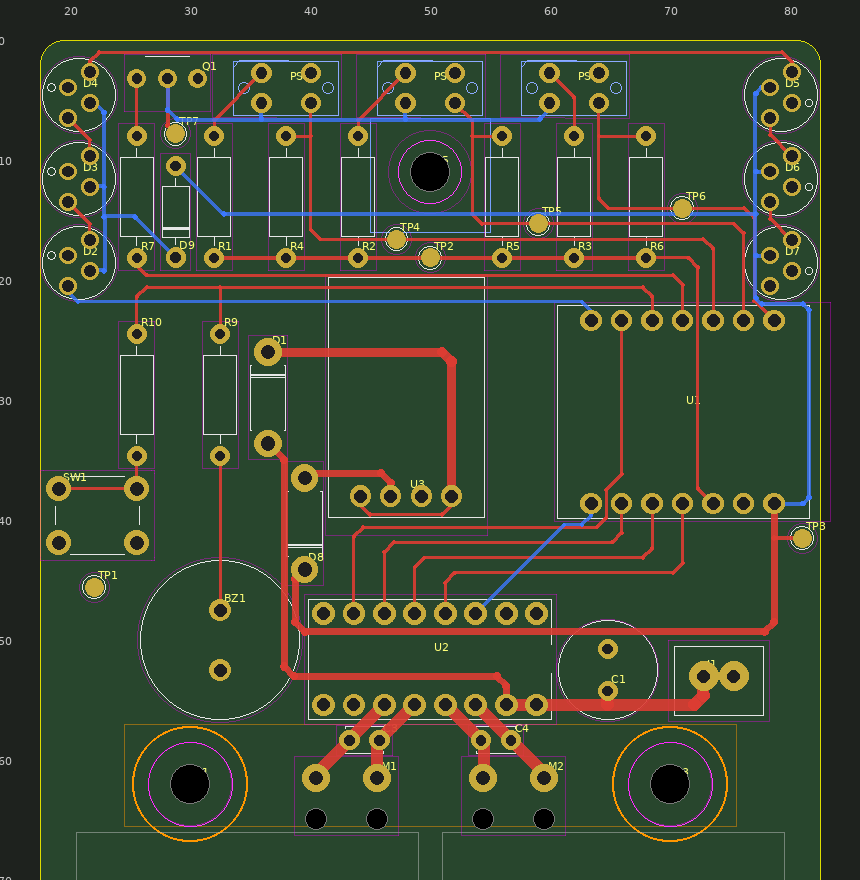
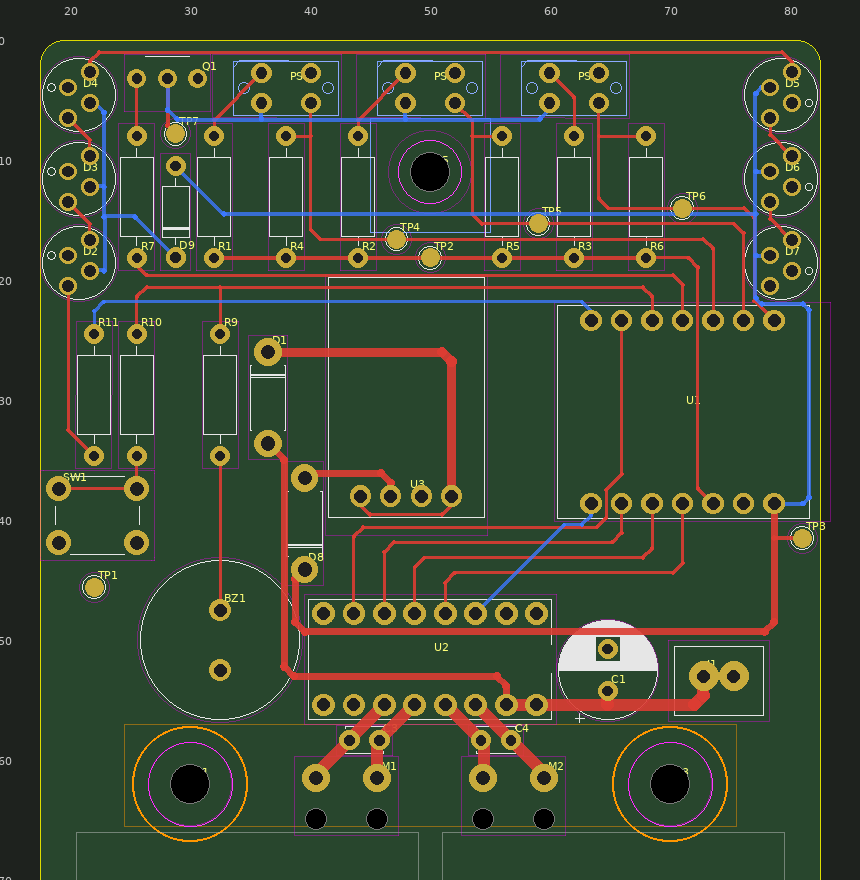
Lite rev.L4 + R11 + 回路図の直しを 1 つにそろえた（矛盾の解消）
#9・#10・#11 を合わせたときに食いちがっていたところを直した。
- 基板: R11 を R10 のすぐ左（x 22）へ。#10 の位置（x 55.5）は #11 の U3（5 V モジュール）
  と重なっていた。D6 の線は rev.L3 と同じ裏の道（y 21.8）で R11 まで、R11 → D2 は表。
  すき間・つながり・パッド間・コートヤードを配置データから調べてエラー 0
- 回路図: #9 の重なり直しの配置に、R11（LED の列の左）と rev.L4 の電源を入れた。
  D9（左の LED の電源を 0.7 V 下げる）は電源ブロックへ。U3 のまわりはラベルを 1 つずつにし、
  D1 → U3 → D8 を線でつないだ。説明文の行の重なりを直した
- 手順の絵: ③ に R11 を入れた（step_images.py）
- 資料: 「VSYS の 470 µF（C2）だけ」など rev.L4 で変わったことと合わない説明、
  R11 の場所、配置の絵（rev_l4_layout_preview.png）を直した

Claude-Session: https://claude.ai/code/session_01LPBWf8VN6nP3ow3MybUPjh

Changed region(s): [[0.6349, 0.7057, 0.786, 0.767], [0.0605, 0.3375, 0.1209, 0.4909], [0.0907, 0.4909, 0.1209, 0.5523]]

diff --git a/lite/scripts/gen_schematic_lite.py b/lite/scripts/gen_schematic_lite.py
@@ -89,35 +89,56 @@ d1 = s.place("Device:D_Schottky", "D1", "1N5819", 73.66, 45.72, 180,
              fields={"Note": "reverse battery: protects U3 and the XIAO"},
              ref_off=(-2.54, -3.81), val_off=(-3.81, 3.81))
 s.lab(d1, "2", "VBAT")      # A
-s.lab(d1, "1", "VIN_BB")    # K
-s.power("PWR_FLAG", 83.82, 43.18, "up")
-s.wire(83.82, 43.18, 83.82, 45.72)
-s.label("VIN_BB", 83.82, 45.72, "down")
-
+# D1 K -> U3 VIN with EN tied to it (EN must not float: always on); one VIN_BB label names the net for the PCB
 u3 = s.place("Linetracer2:AE-TPS63802", "U3", "AE-TPS63802", 104.14, 48.26, 0,
              footprint="Linetracer2:AE-TPS63802",
              fields={"Akizuki": "115557 (AE-TPS63802 kit) + 470k 125474 for VR1",
                      "Note": "VR1 = 470k resistor (5.13 V), lying flat; header 4P from the kit"},
-             ref_off=(0, -8.89), val_off=(0, 11.43))
-s.lab(u3, "1", "VIN_BB")
-s.lab(u3, "4", "VIN_BB")    # EN must not float: always on
-s.lab(u3, "3", "VOUT_BB")
+             ref_off=(0, -10.16), val_off=(0, -7.62))
+xk, yk, _ = d1.pin("1")
+xv, yv, _ = u3.pin("1")
+xe, ye, _ = u3.pin("4")
+s.wire(xk, yk, xv, yv)
+s.path((xe, ye), (xe - 5.08, ye), (xe - 5.08, yv))
+s.junction(xe - 5.08, yv)
+s.label("VIN_BB", xk + 2.54, yk, "right")
+s.power("PWR_FLAG", 83.82, 43.18, "up")
+s.wire(83.82, 43.18, 83.82, yk)
+s.junction(83.82, yk)
 s.pwr(u3, "2", "GND")
 
+# U3 VOUT -> D8 A (one VOUT_BB label), D8 K -> VSYS
 d8 = s.place("Device:D_Schottky", "D8", "1N5819", 132.08, 45.72, 180,
              footprint="Diode_THT:D_DO-41_SOD81_P7.62mm_Horizontal",
              fields={"Note": "OR diode: U3 can not feed the PC's USB port, USB 5 V can not feed U3"},
              ref_off=(-2.54, -3.81), val_off=(-3.81, 3.81))
-s.lab(d8, "2", "VOUT_BB")   # A
+xo, yo, _ = u3.pin("3")
+xa, ya, _ = d8.pin("2")
+s.wire(xo, yo, xa, ya)
+s.label("VOUT_BB", xo + 2.54, yo, "right")
 s.lab(d8, "1", "VSYS")      # K
 s.power("PWR_FLAG", 142.24, 43.18, "up")
 s.wire(142.24, 43.18, 142.24, 45.72)
 s.label("VSYS", 142.24, 45.72, "down")
 
+# D9: supply of the left LED column (D2..D4), 0.7 V below VSYS: the first LED then reads the XIAO's 3.3 V data
+d9 = s.place("Device:D", "D9", "1N4148", 182.88, 45.72, 180,
+             footprint="Diode_THT:D_DO-35_SOD27_P7.62mm_Horizontal",
+             fields={"Akizuki": "1N4148 (check the code)", "Note": "level shift: the first LED runs 0.7 V lower"},
+             ref_off=(-2.54, -3.81), val_off=(-3.81, 3.81))
+s.lab(d9, "2", "VSYS")      # A
+s.lab(d9, "1", "VLED_L")    # K
+s.power("PWR_FLAG", 198.12, 43.18, "up")
+s.wire(198.12, 43.18, 198.12, 45.72)
+s.label("VLED_L", 198.12, 45.72, "down")
+s.text("D9: VLED_L = VSYS - 0.7 V = about 4.1 V for the left LEDs D2-D4.", 167.64, 55.88, 1.27)
+s.text("A PL9823 reads '1' above 0.7 x VDD: 2.9 V there, so the XIAO's 3.3 V", 167.64, 59.69, 1.27)
+s.text("data is enough.  D2-D4 pass the data on at 4.1 V, enough for D5-D7.", 167.64, 63.5, 1.27)
+
 # GND: nothing on this board is a power output for GND (the XIAO's GND pin is a power input)
-s.power("PWR_FLAG", 160.02, 43.18, "up")
-s.wire(160.02, 43.18, 160.02, 45.72)
-s.power("GND", 160.02, 45.72, "down")
+s.power("PWR_FLAG", 228.6, 43.18, "up")
+s.wire(228.6, 43.18, 228.6, 45.72)
+s.power("GND", 228.6, 45.72, "down")
 
 s.text("Why rev.L4: 2 motors starting / stalled pull 2-4 A and the AA cells sag to 2.5-3.3 V; the XIAO needs about 4 V on its "
        "5V pin and reset.", 20.32, 73.66, 1.27)
@@ -128,7 +149,7 @@ s.text("U3 kit: solder a 470k resistor (flat) in place of VR1 BEFORE power-up.  
 
 # ---- mechanical (mounting holes, kept in the schematic for PCB parity)
 s.text("MECHANICAL: H1-H4 = gearbox frame M3 (x30/x70, y62/y96), H5 = front ball caster / skid, snap-in (x50, y11: behind the centre sensor)",
-       20.32, 83.82, 1.27)
+       20.32, 85.09, 1.27)
 for i in range(5):
     s.place("Mechanical:MountingHole", "H%d" % (i + 1), "M3" if i < 4 else "SKID M3", 27.94 + i * 22.86, 91.44, 0,
             footprint="MountingHole:MountingHole_3.2mm_M3", in_bom=False,
@@ -252,20 +273,12 @@ s.connect(r11, "2", leds[0], "4")
 for a, b in zip(leds, leds[1:]):
     s.connect(a, "2", b, "4")
 s.nc(leds[-1], "2")
-d9 = s.place("Device:D", "D9", "1N4148", 299.72, 135.89, 180,
-             footprint="Diode_THT:D_DO-35_SOD27_P7.62mm_Horizontal",
-             fields={"Akizuki": "1N4148 (check the code)", "Note": "level shift: the first LED runs 0.7 V lower"},
-             ref_off=(-2.54, -3.81), val_off=(-3.81, 3.81))
-s.lab(d9, "2", "VSYS")      # A
-s.lab(d9, "1", "VLED_L")    # K
-s.power("PWR_FLAG", 312.42, 133.35, "up")
-s.wire(312.42, 133.35, 312.42, 135.89)
-s.label("VLED_L", 312.42, 135.89, "down")
-s.text("D2..D7 = PL9823 (NeoPixel type, 800 kHz, 24 bit per LED): D2-D4 left side (rear -> front), D5-D7 right side",
+s.text("D2..D7 = PL9823 (NeoPixel type, 800 kHz, 24 bit per LED): D2-D4 left side (rear -> front, VDD = VLED_L),",
        271.78, 165.1, 1.27)
-s.text("(front -> rear).  Data from D6 (TX: the boot log may flash them once).  6 x white = 0.36 A: the library limits it.",
+s.text("D5-D7 right side (front -> rear, VDD = VSYS).  Data from D6 (TX: the boot log may flash them once) through R11 1k:",
        271.78, 168.91, 1.27)
-s.text("R11 1k in the data line: 5 mA at most if DIN touches VDD or GND, or D2 is in backwards.", 271.78, 172.72, 1.27)
+s.text("5 mA at most if DIN touches VDD or GND, or D2 is in backwards.  6 x white = 0.36 A: the library limits it.",
+       292.1, 172.72, 1.27)
 r9 = s.place("Device:R", "R9", "100", 287.02, 175.26, 90, footprint=R_FP,
              ref_off=(-2.54, -2.54), val_off=(-1.27, 2.54))
 bz = s.place("Device:Buzzer", "BZ1", "piezo 13mm", 304.8, 177.8, 0,

diff --git a/lite/scripts/layout_lite.py b/lite/scripts/layout_lite.py
@@ -10,7 +10,7 @@ Routing style ("beautiful" by rule, not by an autorouter):
   * signals that travel together run as a bus at a fixed pitch (sensor lines 1.3 mm, motor inputs 1.27 mm,
     the three button/LED lines 1.0 mm) and keep their order, so nothing on the top side crosses
   * the top side (F.Cu) carries almost everything; the bottom side only the IR LED cathode bus right behind the
-    sensors (they are on the bottom too), the driver's STBY line and the RGB LEDs' supply and data inlet (R11 -> D2),
+    sensors (they are on the bottom too), the driver's STBY line and the RGB LEDs' supply and data line (XIAO -> R11),
     plus a GND pour on both sides
   * symmetric where the parts allow it: the driver sits on the centre line and fans out to both motors alike
 
@@ -80,8 +80,9 @@ PLACE["R10"] = (25.58, UI_R, 270, "F")   # 1k: D4 -> button (right behind R7, sa
 PLACE["SW1"] = (19.08, 37.4, 0, "F")     # pin 1 (front) on R10, pin 2 (rear) GND
 PLACE["R9"] = (32.5, UI_R, 270, "F")     # 100: D4 -> buzzer +
 PLACE["BZ1"] = (32.5, 47.5, 270, "F")    # + front, - rear (body centre 32.5 / 50.0; 1 mm from the frame pillar)
-# 1k in the RGB data line, same row, right beside the XIAO's antenna keep-out (x 56.65 ..): pad 1 (D6) at the front
-PLACE["R11"] = (55.5, UI_R, 270, "F")
+# 1k in the RGB data line, same row, at the left end (left of R10, behind the left LED column): pad 1 (D6) at the
+# front.  (rev.L3 had it right of the bus at x 55.5; since rev.L4 the 5 V module U3 sits there.)
+PLACE["R11"] = (22.0, UI_R, 270, "F")
 
 # 6 full-colour LEDs (PL9823), 3 down each side edge of the front half (the board is free there in front of the
 # XIAO).  One data chain: left rear -> left front (turned 90: DIN rear, DO front), along the front edge,
@@ -183,11 +184,11 @@ route("BTN", "F", W_SIG, P("SW1", "1"), X(25.58))      # the button's two pin-1 
 route("Q1-B", "F", W_SIG, P("R7", "2"), P("Q1", "3"))
 route("BZ1+", "F", W_SIG, P("R9", "2"), P("BZ1", "1"))
 
-# RGB LEDs.  Data: D6 as the 3rd line of the bus (in front of the antenna keep-out) to R11, from R11's rear pad on
-# the bottom (a 45 deg step past its front pad) to the left rear LED, then on the top along each column (a step and
-# a 45 deg jog between neighbours) and along the front edge from the left to the right
-route("RGB_DIN", "F", W_SIG, P("U1", "7"), Y(21.6), X(55.5), P("R11", "1"))
-route("D2-DIN", "B", W_SIG, P("R11", "2"), DX(53.5, -1), Y(21.8), X(LED_L - 0.9), P("D2", "4"))
+# RGB LEDs.  Data: D6 on the bottom just in front of the XIAO's pins (y 21.8, under U3) to R11 at the left end, from
+# R11's rear pad on the top 45 deg to the left and straight forward to the left rear LED, then on the top along each
+# column (a step and a 45 deg jog between neighbours) and along the front edge from the left to the right
+route("RGB_DIN", "B", W_SIG, P("U1", "7"), Y(21.8), X(22.0), P("R11", "1"))
+route("D2-DIN", "F", W_SIG, P("R11", "2"), DX(LED_L - 0.9, -1), P("D2", "4"))
 route("D2-DO", "F", W_SIG, P("D2", "2"), Y(15.305), DX(LED_L - 0.9, -1), P("D3", "4"))
 route("D3-DO", "F", W_SIG, P("D3", "2"), Y(8.305), DX(LED_L - 0.9, -1), P("D4", "4"))
 route("D4-DO", "F", W_SIG, P("D4", "2"), Y(1.0), X(LED_R + 0.9), P("D5", "4"))

diff --git a/lite/scripts/step_images.py b/lite/scripts/step_images.py
@@ -23,7 +23,7 @@ import asm3d  # noqa: E402
 import layout_lite as LL  # noqa: E402
 
 # build order (= the circled numbers on the board, lite/docs/assembly.md)
-STEPS = {1: ["R1", "R2", "R3", "R9"], 2: ["R4", "R5", "R6"], 3: ["R7", "R10"], 4: ["D1", "D8"], 5: ["D9"],
+STEPS = {1: ["R1", "R2", "R3", "R9"], 2: ["R4", "R5", "R6"], 3: ["R7", "R10", "R11"], 4: ["D1", "D8"], 5: ["D9"],
          6: ["C3", "C4"], 7: ["Q1"], 8: ["SW1"], 9: ["BZ1"], 10: ["J1"], 11: ["U2"], 12: ["U1"], 13: ["U3"],
          14: ["D2", "D3", "D4", "D5", "D6", "D7"], 15: ["C1"], 16: ["PS1", "PS2", "PS3"]}
 SENSOR_STEP = 16

diff --git a/lite/README.md b/lite/README.md
@@ -91,6 +91,7 @@ rev.L3 は `単3×3 ─ D1 ─ XIAO の 5V ピン` だった。XIAO の中は `5
 
 - **U3 は真ん中**（ブザーと XIAO のアンテナの間）に、自分のピンヘッダでねかせる（2.5 mm 浮く）。下は線だけ（3 本のバスなど）。XIAO のアンテナの禁止エリアから 2 mm、IN2 の線から 0.4 mm。
 - **D1・D8 は U3 の左にたてに 2 本**。D9 は前の R7 と R1 の間（裏の横の線（VSYS）を D9 で 2 つに分けた）。
+- **R11（フルカラー LED の信号線の 1 kΩ）は R10 のすぐ左**。rev.L3 の案（x 55.5）は U3 の四角と重なるので動かした。D6 の線は裏で y 21.8 を左へ R11 まで、R11 → D2 は表（§3.6）。
 - **電池（U3 の入力）と 5 V（VSYS）は、モータードライバのモジュールの下**（2 列のピンの間。モジュールは 2.5 mm 浮いている）を 2 本の線で通した。右うしろ（ドライバの VM のピン、XIAO の 5V ピン）から真ん中へ、XIAO のアンテナの禁止エリアと STBY の線（裏）をよけて、**交差なしで行ける道はここだけ**。線の太さは 0.6 mm（1 A まで）、ビア 0 のまま。
 - C2・前の D1 の場所（右うしろ）があいたので、ロボットの名前をそこへ。テストパッド GND（TP1）はスタートボタンのうしろへ（前の場所は U3 の下になる）。**抵抗の絵は U3 の四角の中**（抵抗は ①〜③、U3 は ⑬ なので、使うときには見える）。
 - つくる順番を **①〜⑰** に付け直した: ④ 1N5819 ×2（D1・D8）→ ⑤ 1N4148（D9）→ ⑥ 0.1 µF → ⑦ トランジスタ → ⑧ ボタン → ⑨ ブザー → ⑩ でんち → ⑪ ドライバー → ⑫ XIAO → **⑬ でんげん（U3）** → ⑭ フルカラー LED → ⑮ 470 µF（C1 だけ）→ ⑯ センサー（裏）→ ⑰ モーター。
@@ -143,7 +144,7 @@ KiCad で作り直したら確かめること: ERC / DRC がエラー 0・警告
 | 9 | XIAO は**ピンヘッダ**で（じか付けではなく） | **2 列 × 7 ピンのスルーホール**に変えた（ピンヘッダは 1×40 を切って使う）。XIAO は基板から 2.5 mm 浮く |
 | 10 | 抵抗も分かりやすく | **同じ色の抵抗を 1 つの番号でまとめて付ける**: ① ちゃ（100 Ω ×4）→ ② だいだい（10 kΩ ×3）→ ③ あか（1 kΩ ×3。2026-10-30 に R11 が増えた）。右前の角に**抵抗の絵（3 本目の帯に ▲）と「① ちゃ ② だいだい ③ あか」**を印刷 |
 | 11 | 全部（スキッド・モーター・ギヤボックス・電池・基板・部品）を合わせて STEP か STL で | **`hardware/Linetracer2-Lite_assembly.stl`**（12 万三角形、6 MB）と色つきの **`.glb`**。作り方は §9 |
-| 12 | フルカラー LED に電流が流れすぎないよう、XIAO の出せる電流と LED の入力を見て抵抗を付ける。コンデンサはいらないかも（2026-10-30 の依頼） | **信号線に R11 1 kΩ**（XIAO D6 → R11 → D2 の DIN）。ふだん DIN にはほとんど電流が流れないが、**DIN が VDD（USB で 5 V）や GND とはんだでつながったとき・LED を逆に差したとき**に D6 から出入りする電流を **5 mA 以下**にする（XIAO のピンの限度 28 mA / 40 mA、§3.6）。LED が光る電流は VDD（VSYS）から LED の中の定電流回路が流すので、抵抗では決めない（明るさはソフトで 60/255）。**コンデンサは付けない**（LED ごとの 0.1 µF なし、VSYS の 470 µF（C2）だけ、のまま）。抵抗は R7・R10 と同じ 1 kΩ なので、部品の種類は増えない（③ あか が 3 本に） |
+| 12 | フルカラー LED に電流が流れすぎないよう、XIAO の出せる電流と LED の入力を見て抵抗を付ける。コンデンサはいらないかも（2026-10-30 の依頼） | **信号線に R11 1 kΩ**（XIAO D6 → R11 → D2 の DIN）。ふだん DIN にはほとんど電流が流れないが、**DIN が VDD（USB で 5 V）や GND とはんだでつながったとき・LED を逆に差したとき**に D6 から出入りする電流を **5 mA 以下**にする（XIAO のピンの限度 28 mA / 40 mA、§3.6）。LED が光る電流は VDD（VSYS）から LED の中の定電流回路が流すので、抵抗では決めない（明るさはソフトで 60/255）。**コンデンサは付けない**（LED ごとの 0.1 µF なし。rev.L4 では VSYS の 470 µF（C2）もやめたので、LED のそばには U3 の出力のコンデンサだけ）。抵抗は R7・R10 と同じ 1 kΩ なので、部品の種類は増えない（③ あか が 3 本に） |
 | — | 子ども向けか（組み立てにくい・すべる・角がとがっている・危ない所）を別のエージェントでも確認 | 3D プリント部品は角を丸め、枠に L / R の刻印（`../hardware/mechanical/README.md` §6）。電子工作の側のレビューは §11 |
 
 | | 標準版 rev.A1 | Lite rev.L2 | **Lite rev.L3** |
@@ -298,9 +299,9 @@ VSYS ─ D2〜D7 の VDD（裏の線）      GND ─ D2〜D7 の GND（ベタ）
   - **PL9823 の決まりは 4.5〜6 V**。電池では少し足りないが、ふつうは光る。電池が減ると青と緑が暗くなる（赤っぽくなる）。
   - 秋月のもう 1 つの 5 mm フルカラー LED **OST4ML5B32A**（3.5〜6 V）は電圧は合うが、信号が 3 段階（H・中間・L）の独自のしくみで、ふつうはピンが 2 本要る。ピン 1 本で作る方法もあるが、H と読まれる電圧がデータシートに無いので、こちらにした。
 - 信号: XIAO は 3.3 V。PL9823 が H と読む電圧（目安 VDD の 0.7 倍）は、電池の 4.2 V では 2.9 V で足りる。**USB だけ（5 V）では 3.5 V になり、足りないかもしれない**（光らない・色がおかしい）。試作で確かめる（§10）。だめなら、LED の電源に 1N5819 を 1 本はさむ（次の版の候補）。
-- 電流: 1 こ 白でいっぱいに光らせて約 60 mA、6 こで 0.36 A。この電流は **VDD（VSYS）から**、LED の中の定電流回路が色ごとに決まった量だけ流す（信号線の D6 からではない。だから VDD にも抵抗は要らない）。**ソフトで明るさを 60/255 におさえている**（`RGB_MAX`。6 こ白で約 85 mA）。**コンデンサは付けない**（2026-10-30 に決めた）: LED ごとの 0.1 µF は無し、VSYS の 470 µF（C2）だけ。LED が多い市販の帯（テープ）と同じ考え。ちらつくようなら次の版で足す（§10）。
+- 電流: 1 こ 白でいっぱいに光らせて約 60 mA、6 こで 0.36 A。この電流は **VDD（VSYS）から**、LED の中の定電流回路が色ごとに決まった量だけ流す（信号線の D6 からではない。だから VDD にも抵抗は要らない）。**ソフトで明るさを 60/255 におさえている**（`RGB_MAX`。6 こ白で約 85 mA）。**コンデンサは付けない**（2026-10-30 に決めた）: LED ごとの 0.1 µF は無し。rev.L4 で VSYS の 470 µF（C2）もやめた（USB の決まり、§0）ので、電源は U3 の出力のコンデンサだけ。LED が多い市販の帯（テープ）と同じ考え。ちらつくようなら次の版で足す（§10）。
 - **信号線の抵抗 R11 1 kΩ**（2026-10-30 に追加。XIAO の D6 と 1 こ目の LED（D2）の DIN の間）:
-  - ふだんは **DIN にはほとんど電流が流れない**（マイコンの入力と同じ。µA くらい）ので、R11 があっても電圧は下がらず、光り方も変わらない。
+  - ふだんは **DIN にはほとんど電流が流れない**（マイコンの入力と同じ。µA くらい）ので、R11 があっても電圧は下がらず、光り方も変わらない。rev.L4 の D9（1 こ目の VDD を 0.7 V 下げて 3.3 V の信号を「1」と読ませる）ともぶつからない。
   - 守りたいのは**まちがえたとき**。XIAO（ESP32-C6）のピンが出せる電流は**最大 40 mA、吸い込めるのは 28 mA**（データシートの DC 特性、ドライブ最大のとき。ふつうは 20 mA くらいまでで使う）。抵抗が無いと、次のどれかで D6 にそれ以上流れてピンがこわれうる:
 
     | まちがい | R11 なし | **R11 1 kΩ** |
@@ -313,7 +314,8 @@ VSYS ─ D2〜D7 の VDD（裏の線）      GND ─ D2〜D7 の GND（ベタ）
   - どれも **5 mA 以下**（XIAO の限度 28 mA の 1/5 以下）。LED の入力の保護ダイオードにも無理がない。
   - 大きすぎると信号がなまる: 1 kΩ × （DIN の入力と線の容量 約 15 pF）≒ 15 ns。PL9823 のいちばん短いパルスは 350 ns（±150 ns まで許される）なので問題ない（NeoPixel でよく使う 300〜500 Ω より大きいが、線が短いので十分速い）。
   - **1 kΩ にした理由**: R7・R10 と同じ部品なので、**抵抗の種類が増えない**（つくる順番 ③ あか が 2 本 → 3 本になるだけ、+¥1）。470 Ω でも動くが、4 種類目の色（きいろ むらさき ちゃ）になる。
-  - 場所: R10・R9 と同じ列の右、XIAO のアンテナの禁止エリアのすぐ左（x 55.5）。D6 → R11 は表（XIAO の前のバスの 3 本目、y 21.6）、R11 → D2 は今までどおり裏（§4.4）。
+  - 場所: **R10 のすぐ左**（x 22、R10・R9 と同じ列、左のうしろの LED（D2）のすぐうしろ）。D6 → R11 は裏（XIAO のピンのすぐ前の高さ y 21.8 を左へ。rev.L3 の D6 の線と同じ道）、R11 → D2 は表（45° に 1 段で左へ、まっすぐ前へ D2 の DIN）（§4.4）。
+  - 最初は XIAO のアンテナの禁止エリアのすぐ左（x 55.5）に置いたが、rev.L4 の U3（でんげん モジュール）がそこに来るので、rev.L4 にまとめるときに動かした。
 
 - D6 は TX なので、**電源を入れた直後に起動ログで一瞬光ることがある**。プログラムが始まると消える。
 - **向きをまちがえると VDD と GND が入れかわる**（こわれて熱くなることがある）。基板の丸の中の **● の点のすぐとなりの穴に、いちばん長い足（GND）**（● は丸の外がわ＝基板の端の側）。穴は前後に互いちがい（±0.9 mm）で、足の間 1.27 mm のままよりブリッジしにくい。**まっすぐ 1 列の穴（足をそのまま差せる）にしない理由**: 1.27 mm 間隔だとパッドの間が 0.2〜0.3 mm しかなく、**となりどうしの VDD と GND がはんだでつながると電源がショート**する（電池が熱くなる）。互いちがいならパッドの間は約 0.9 mm。足を 1 本おきに前・うしろへ少し開くだけで差せる（先生が先に開いておいてもよい）。
@@ -331,8 +333,8 @@ VSYS ─ D2〜D7 の VDD（裏の線）      GND ─ D2〜D7 の GND（ベタ）
 |------|-------------|-----------------|
 | 外形・層・板厚 | 65 × 100 mm、2 層、1.6 mm | 同じ |
 | フットプリント | 29（取付穴 5 を含む） | **44**（BZ1・R9・R10・R11・フルカラー LED 6・テストパッド 7 が増え、赤 LED・R8 が減った） |
-| パッド / 配線 / ビア | 96 / 131 本 / 0 | **125 / 135 本 / 0**（R11 を足す前。作り直したら更新） |
-| 配線の総延長 | 737 mm（表 97 / 裏 640） | **838 mm（表 624 / 裏 214）**（R11 を足す前） |
+| パッド / 配線 / ビア | 96 / 131 本 / 0 | **125 / 135 本 / 0**（rev.L3、R11 を足す前） |
+| 配線の総延長 | 737 mm（表 97 / 裏 640） | **838 mm（表 624 / 裏 214）**（rev.L3、R11 を足す前） |
 | 配線のしかた | Freerouting（6 回やっていちばん短いもの） | **手で引いた配線（毎回同じ）** |
 | ERC / DRC | エラー 0、警告 0、未接続 0 | **エラー 0、警告 0、未接続 0、回路図との不一致 0** |
 
@@ -354,8 +356,8 @@ VSYS ─ D2〜D7 の VDD（裏の線）      GND ─ D2〜D7 の GND（ベタ）
  (D3)  R7 R1 IR R4 R2 S1  (キャスター) R5 S2 R3 R6 S3      (D6)
  (D2)  あか ちゃ だいだい ちゃ  3V3 ●  だいだい ちゃ だいだい  (D7)
   ⑫   ══ 3V3 ══ ボタン＋ブザー・赤外 LED の 2 本 ══    GND ●
-       R10  R9   ┌抵抗の絵┐        R11   ┌── XIAO ESP32C6 ⑪ ─┐
-       あか ちゃ  ①ちゃ…           あか   │ マイコン      USB ─┼→ USB-C
+   R11 R10  R9   ┌抵抗の絵┐              ┌── XIAO ESP32C6 ⑪ ─┐
+   あか あか ちゃ  ①ちゃ…                 │ マイコン      USB ─┼→ USB-C
   SW1⑦           └────────┘ Linetracer2   └────────────────────┘ ● VSYS
   スタート  ブザー⑧   ╚═ XIAO → ドライバーの 4 本のバス ═╝   C2⑬  D1④
          ┌ U2⑩ モーター ドライバー ┐ C1⑬  J1⑨ でんち         VBAT
@@ -376,8 +378,8 @@ VSYS ─ D2〜D7 の VDD（裏の線）      GND ─ D2〜D7 の GND（ベタ）
 | センサーの LED（A） → 100 Ω | 表 | 45° の 1 本 |
 | センサーのコレクタ → XIAO D2/D1/D0 | 表 | まっすぐ後ろ → **3 本のバス**（y 14.0 / 15.3 / 16.6）→ XIAO の前の列へ。10 kΩ は横に 1 本だけ出してつなぐ |
 | 3V3 | 表 | 抵抗の後ろのパッドを**1 本の横線**でつなぎ、XIAO の D3 と D2 のすき間から XIAO の下を通って 3V3 ピンへ |
-| ボタン＋ブザー・赤外 LED の ON/OFF・フルカラー LED の信号 | 表 | XIAO の前の列から**3 本のバス**で左へ。D4 の線は R10（ボタンへ）と R9（ブザーへ）の 2 つに分かれる。D6 の線（3 本目、y 21.6）はアンテナの禁止エリアの前を通ってすぐ R11 へ |
-| フルカラー LED の信号 | **裏**→表 | R11 のうしろの足から裏で 45° に 1 段よけて前へ、XIAO のピンのすぐ前の高さ（y 21.8）を左へ → 左のうしろの LED。そこから表で、列の中は DO → 次の DIN（1 段の 45°）、左の前 → 前の端にそって右の前へ |
+| ボタン＋ブザー・赤外 LED の ON/OFF | 表 | XIAO の前の列から**2 本のバス**で左へ。D4 の線は R10（ボタンへ）と R9（ブザーへ）の 2 つに分かれる |
+| フルカラー LED の信号 | **裏**→表 | XIAO の D6 から裏で、XIAO のピンのすぐ前の高さ（y 21.8）を左へ → R11（R10 の左）。R11 のうしろの足から表で 45° に 1 段、まっすぐ前へ → 左のうしろの LED。そこから表で、列の中は DO → 次の DIN（1 段の 45°）、左の前 → 前の端にそって右の前へ |
 | フルカラー LED の電源（VSYS） | **裏** | XIAO の 5V ピンから右の端を回って右の列の内側の縦線 → y 14.5 で前の方を横切る → 左の列の内側の縦線。LED ごとに短い枝 |
 | テストパッド | 表 | 3V3・S1〜S3 は線の上にのせた。VSYS・IR は短い枝。GND はベタ |
 | モーターの入力 IN1〜IN4 | 表 | XIAO の後ろの列から**4 本のバス**でドライバーへ（IN2 は XIAO の下から） |
@@ -465,7 +467,7 @@ VSYS ─ D2〜D7 の VDD（裏の線）      GND ─ D2〜D7 の GND（ベタ）
 | **S1 / S2 / S3** | センサーの線の上 | 赤外 LED ON で、白い紙の上: 低い（0.3〜1 V）、黒い線の上: 約 3 V | センサーの向き・高さ・はんだ、10 kΩ（だいだい）、100 Ω（ちゃ） |
 
 - **モーター**: 「ひだり」「みぎ」のパッドで、`04_motor_test.py` で前進のとき 2〜3 V（向きで ＋ / −）。0 V ならドライバー（⑩）のはんだと向き、STBY。
-- **フルカラー LED**: `08_test_pads.py` で 1 こずつ白く光る。**光らない LED の 1 つ前**までは信号が来ている → 光らない LED か、その 1 つ前の LED の DO のはんだを見る。**1 こ目（左のうしろ）から光らない**ときは R11（XIAO のすぐ左の 1 kΩ）のはんだも見る。
+- **フルカラー LED**: `08_test_pads.py` で 1 こずつ白く光る。**光らない LED の 1 つ前**までは信号が来ている → 光らない LED か、その 1 つ前の LED の DO のはんだを見る。**1 こ目（左のうしろ）から光らない**ときは R11（R10 のすぐ左の 1 kΩ）と D9 のはんだも見る。
 - 値は目安（まだ試作していない）。**ちゃんと動く 1 台で測って、この表を書きなおす**（§10）。
 
 ---

diff --git a/docs/08_knowledge.md b/docs/08_knowledge.md
@@ -266,7 +266,7 @@ flatpak install --user flathub org.kicad.KiCad org.kicad.KiCad.Library.Footprint
 | Lite rev.L3: ブザーを START ボタンと同じピン（D4）に、ボタンの側に R10 1 kΩ（2026-10-07） | XIAO の信号ピン 11 本は全部使っている。圧電は直流を通さないのでボタンの読み取りと両立し、R10 があれば押したままでも鳴る。LED は D6 を 1 人で使える。鳴っている 0.1 秒だけボタンを読めないが、走っている間は鳴らさない | 赤 LED と同じ D6（最初の案。鳴っている間 LED が光る・起動ログで鳴る・別々に使えない）／ボタンと共用で抵抗 1 本（押している間は鳴らない）／RX（PWM が REPL に入る）／センサーを 2 個に減らす／STBY をやめる（過電流のラッチが解除できない） |
 | ギヤボックス: 外かべに逃げ穴、デッキにリブ（2026-10-07） | データシートの公差で軸の先が外かべに当たりうる。モーターはツメの摩擦だけで、入れた道を戻れる。どちらも印刷部品だけで直り、ほかの部品・ねじ・基板は変わらない | 軸の先を切る（工具・手間、子どもにはさせられない）／ピニオンを軸の先から引っこめて圧入（位置合わせが難しい）／外かべを外へずらす（車輪・車軸・ねじ穴が全部変わる）／モーターを接着・テープ（使わない方針） |
 | Lite rev.L3: 赤 LED をフルカラー LED PL9823 に（2026-10-08、09 に 6 こ・左右の端へ） | 依頼（シリアル制御・リード付き、のち 6 こを両側に、走るとき流れる光）。NeoPixel と同じ信号で、ソフトも資料も多い。信号線は 1 本のまま（D6）。電源は VSYS で決まり（4.5 V）より少し低いが、こわれる心配は無く、試作で確かめる。左右の端に 3 こずつ縦に並べ、走るときは両側で前→うしろに流す（その側の車輪の速さ） | OST4ML5B32A（電圧は合うが 3 段階の信号で、ピン 1 本では動くか分からない）／赤 LED のまま |
-| Lite rev.L3: フルカラー LED の信号線に R11 1 kΩ、コンデンサは付けない（2026-10-30） | 依頼（XIAO の出せる電流と LED の入力を見て抵抗を、コンデンサはいらないかも）。ブリッジ・逆差しのとき D6 の電流を 5 mA 以下に。R7・R10 と同じ 1 kΩ なので部品の種類が増えない。置き場所は R10・R9 の列の右（XIAO のアンテナの禁止エリアのすぐ左）で、D6 の線をバスの 3 本目として表に戻せた。LED ごとの 0.1 µF は付けず、VSYS の 470 µF（C2）だけ | 330〜470 Ω（NeoPixel でよく使う値。4 種類目の色になる）／抵抗なし（ブリッジで XIAO のピンがこわれうる）／VDD 側に抵抗（電圧が下がって決まり 4.5 V からさらに外れる）／LED ごとに 0.1 µF（部品 6 こ・はんだ 12 か所増え、基板の端に場所が無い） |
+| Lite rev.L3: フルカラー LED の信号線に R11 1 kΩ、コンデンサは付けない（2026-10-30） | 依頼（XIAO の出せる電流と LED の入力を見て抵抗を、コンデンサはいらないかも）。ブリッジ・逆差しのとき D6 の電流を 5 mA 以下に。R7・R10 と同じ 1 kΩ なので部品の種類が増えない。置き場所は最初 R10・R9 の列の右（XIAO のアンテナの禁止エリアのすぐ左）にしたが、rev.L4 の U3 がそこに来るので R10 の左へ（D6 の線は rev.L3 と同じ裏の道）。LED ごとの 0.1 µF は付けない（rev.L4 で VSYS の 470 µF（C2）もやめた） | 330〜470 Ω（NeoPixel でよく使う値。4 種類目の色になる）／抵抗なし（ブリッジで XIAO のピンがこわれうる）／VDD 側に抵抗（電圧が下がって決まり 4.5 V からさらに外れる）／LED ごとに 0.1 µF（部品 6 こ・はんだ 12 か所増え、基板の端に場所が無い） |
 | Lite rev.L3: 配線は手で引く（自動配線をやめる） | 「きれいな配線」の依頼。決まった形を毎回同じに作れ、交差・ビア・遠回りが無い。部品数が 30 個ほどなら手で書ける | Freerouting を回数で選ぶ（rev.L2 まで。見た目がばらばら） |
 | Lite rev.L3: 抵抗は色ごとにまとめて付ける（①ちゃ ②だいだい ③あか） | 1 回の手順で 1 種類しか持たないので取りちがえが減る。基板の場所はセンサーごとの組のまま（配線が短い） | 色ごとに場所を集める（センサーからの線が長くなり交差する） |
 | Lite rev.L3: 前の支えはボールキャスター（玉ごと印刷） | 依頼。玉が外れない（小さい部品を飲み込む心配が減る）。穴 (50, 11) とツメはスキッドと同じで、どちらも使える | 市販のビーズを押し込む（先生用。外れる心配がある） |

diff --git a/lite/docs/assembly.md b/lite/docs/assembly.md
@@ -68,7 +68,7 @@
 |------|------|----------|--------|
 | ① | <img src="steps/step_01.png" width="230"> | 「①」の ふくろの ていこう 4 ほん。「ちゃ」と かいて ある ところに。むきは どちらでも よい | 100 Ω（R1〜R3、R9）。足を 10 mm 間隔に曲げる |
 | ② | <img src="steps/step_02.png" width="230"> | 「②」の ふくろの ていこう 3 ぼん。「だいだい」の ところ | 10 kΩ（R4〜R6） |
-| ③ | <img src="steps/step_03.png" width="230"> | 「③」の ふくろの ていこう 3 ぼん。「あか」の ところ | 1 kΩ（R7、R10、R11。R11 はフルカラー LED の信号線の保護） |
+| ③ | <img src="steps/step_03.png" width="230"> | 「③」の ふくろの ていこう 3 ぼん。「あか」の ところ | 1 kΩ（R7、R10、R11。R11 は R10 のすぐ左で、フルカラー LED の信号線の保護） |
 | ④ | <img src="steps/step_04.png" width="230"> | くろい つつ（ダイオード）2 ほん。**しろい おびを ふとい せんの ほう**に。まんなかの 四角の ひだりに、たてに 2 ほん | 1N5819（D1、D8）。D1 が逆だと電池で動かない。D8 が逆だと USB の 5 V がでんげん モジュールに流れこむ（§6 の 4 で確かめる） |
 | ⑤ | <img src="steps/step_05.png" width="230"> | ちいさい ガラスの ダイオード 1 ぽん（オレンジいろ）。**くろい おびを ふとい せんの ほう**に。まえの ほうの ていこうの あいだ | 1N4148（D9）。左のフルカラー LED 3 こは、これを通った電気で光る。逆だと左の 3 こが光らない（右の 3 こも、信号が来ないので光らない） |
 | ⑥ | <img src="steps/step_06.png" width="230"> | ちいさい ちゃいろの つぶ 2 こ。**まっすぐ たてる**（うしろへ すこし たおれても よい） | 0.1 µF（C3、C4）。前（モジュール側）へ倒れると ⑪ が浮く |
